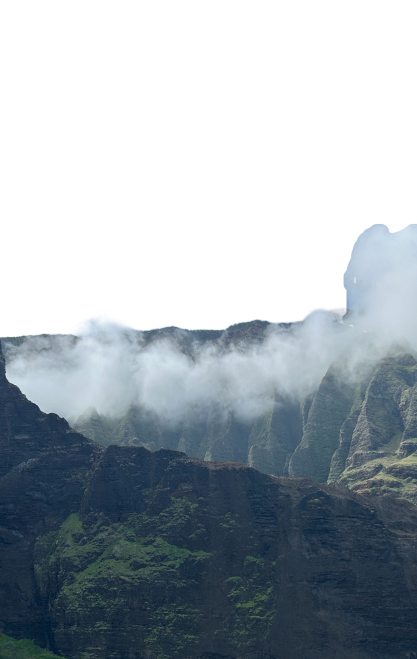
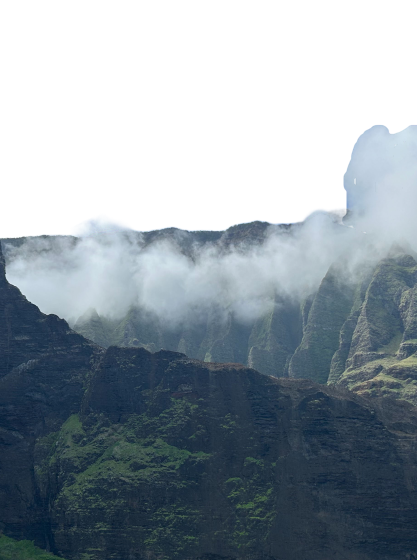
More mobile img tweaks

diff --git a/src/pages/TestPage.jsx b/src/pages/TestPage.jsx
@@ -10,14 +10,6 @@ import XIcon from '@mui/icons-material/X';
 import LinkedInIcon from '@mui/icons-material/LinkedIn';
 import colors from '../utils/colors';
 
-const TransparentStack = styled(Stack)(() => ({
-    // position: 'static',
-    // display: 'flex',
-    // width: '80%',
-    // height: '100%',
-    // margin: 'auto'
-}));
-
 const ArticleCard = styled(Card)(() => ({
     display: 'flex',
     flexDirection: 'column',
@@ -317,7 +309,7 @@ const TestPage = ({ darkModeEnabled, setDarkModeEnabled }) => {
             <Stack
                 className='portfolio-transparent-stack'
                 sx={{
-                    backgroundColor: darkModeEnabled ? 'rgba(0, 0, 0, 0.7)' : 'rgba(242, 242, 242, 0.65)',
+                    backgroundColor: darkModeEnabled ? 'rgba(0, 0, 0, 0.65)' : 'rgba(242, 242, 242, 0.65)',
                     boxShadow: darkModeEnabled
                         ? '0px -4px 4px -1px rgba(0, 0, 0, 0.6), 0px -4px 5px 0px rgba(0, 0, 0, 0.35), 0px -4px 6px 0px rgba(0, 0, 0, 0.50)'
                         : '0px -4px 4px -1px rgba(102, 102, 102, 0.6), 0px -4px 5px 0px rgba(102, 102, 102, 0.35), 0px -4px 6px 0px rgba(102, 102, 102, 0.50)',
@@ -326,8 +318,6 @@ const TestPage = ({ darkModeEnabled, setDarkModeEnabled }) => {
 
                 <Stack
                     display="flex"
-                    sx={{
-                    }}
                 >
                     <Stack
                         className='climatenews-text-stack'

diff --git a/src/index.css b/src/index.css
@@ -225,10 +225,10 @@ body {
     }
 
     .portfolio-bg-img {
-        background-image: url('./images/mountain-bg-portfolio.png');
-        height: 100%;
+        background-image: url('./images/mountain-bg-portfolio.png')!important;
+        height: 100%!important;
+        background-position: top!important;
     }
-
 }
 
 
